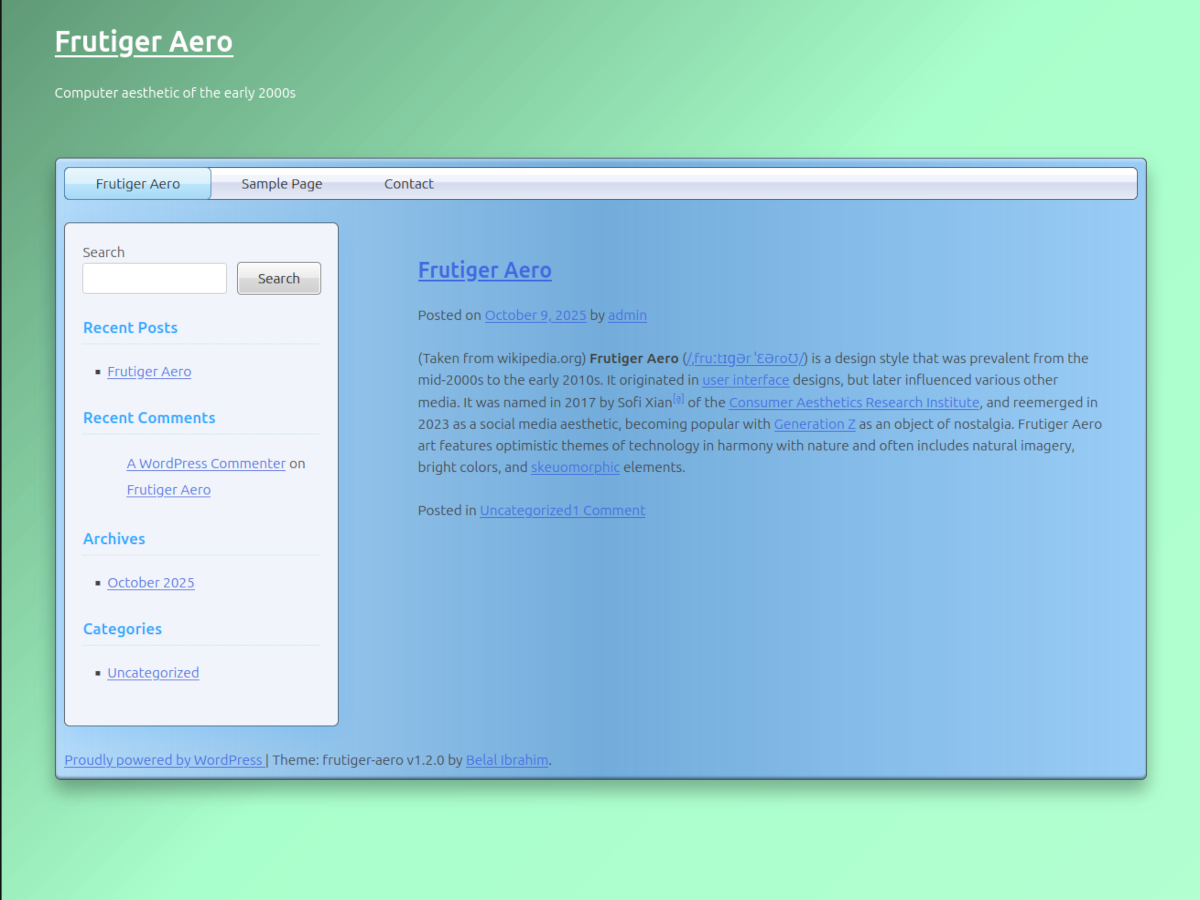
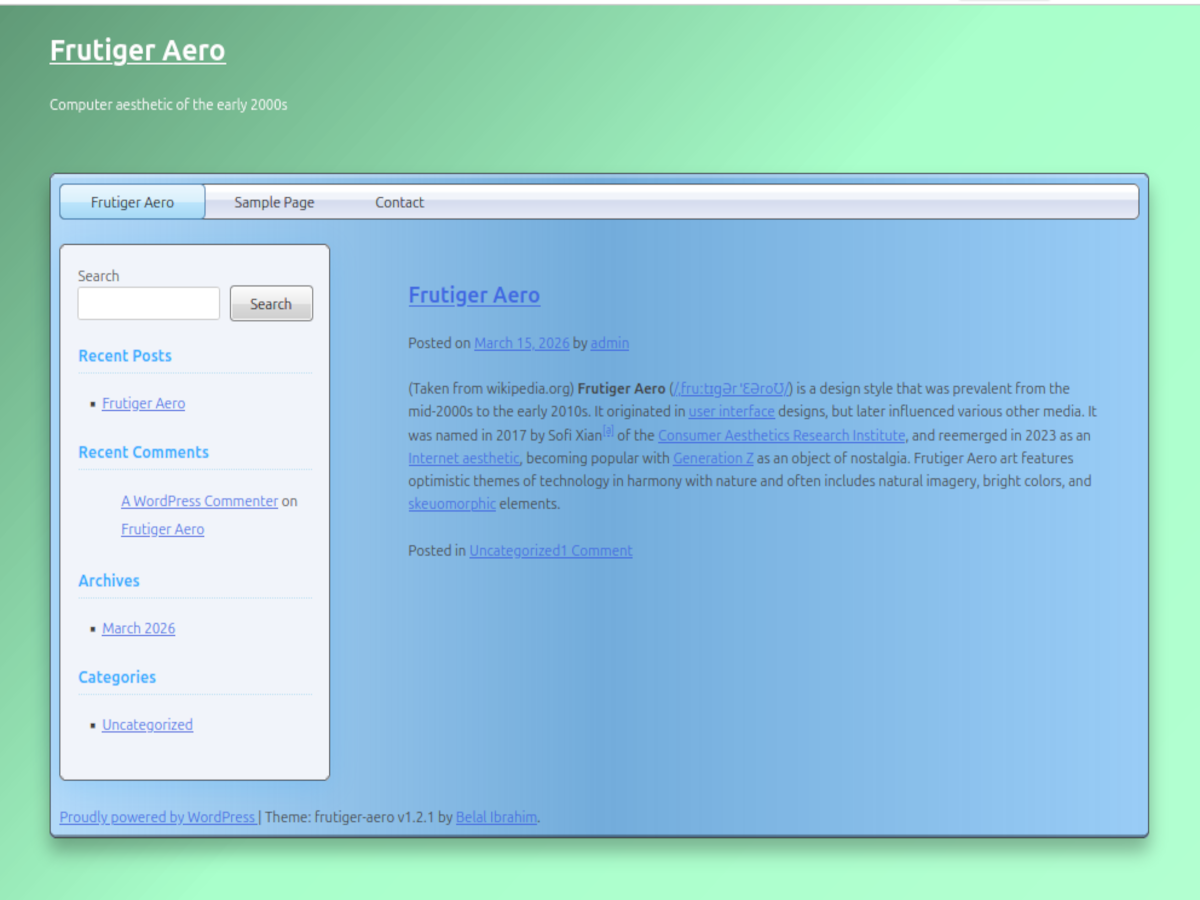
v1.2.1

Changed region(s): [[0.0308, 0.1556, 0.9867, 0.9644], [0.3392, 0.28, 0.925, 0.6222], [0.0, 0.0, 1.0, 0.1244]]

diff --git a/style-rtl.css b/style-rtl.css
@@ -4,7 +4,7 @@ Theme URI: https://github.com/belal-i/frutiger-aero
 Author: Belal Ibrahim
 Author URI: https://github.com/belal-i
 Description: A theme inspired by the Frutiger Aero aesthetic of the early 2000s.
-Version: 1.2.1-rc-1
+Version: 1.2.1
 Tags: two-columns
 Text Domain: frutiger-aero
 Requires at least: 4.5

diff --git a/style.css b/style.css
@@ -4,7 +4,7 @@ Theme URI: https://github.com/belal-i/frutiger-aero
 Author: Belal Ibrahim
 Author URI: https://github.com/belal-i
 Description: A theme inspired by the Frutiger Aero aesthetic of the early 2000s.
-Version: 1.2.1-rc-1
+Version: 1.2.1
 Tags: two-columns
 Text Domain: frutiger-aero
 Requires at least: 4.5

diff --git a/functions.php b/functions.php
@@ -9,7 +9,7 @@
 
 if ( ! defined( 'FRUTIGER_AERO_VERSION' ) ) {
 	// Replace the version number of the theme on each release.
-	define( 'FRUTIGER_AERO_VERSION', '1.2.1-rc-1' );
+	define( 'FRUTIGER_AERO_VERSION', '1.2.1' );
 }
 
 if ( ! defined( 'FRUTIGER_AERO_DEFAULT_COLOR_HEX' ) ) {
